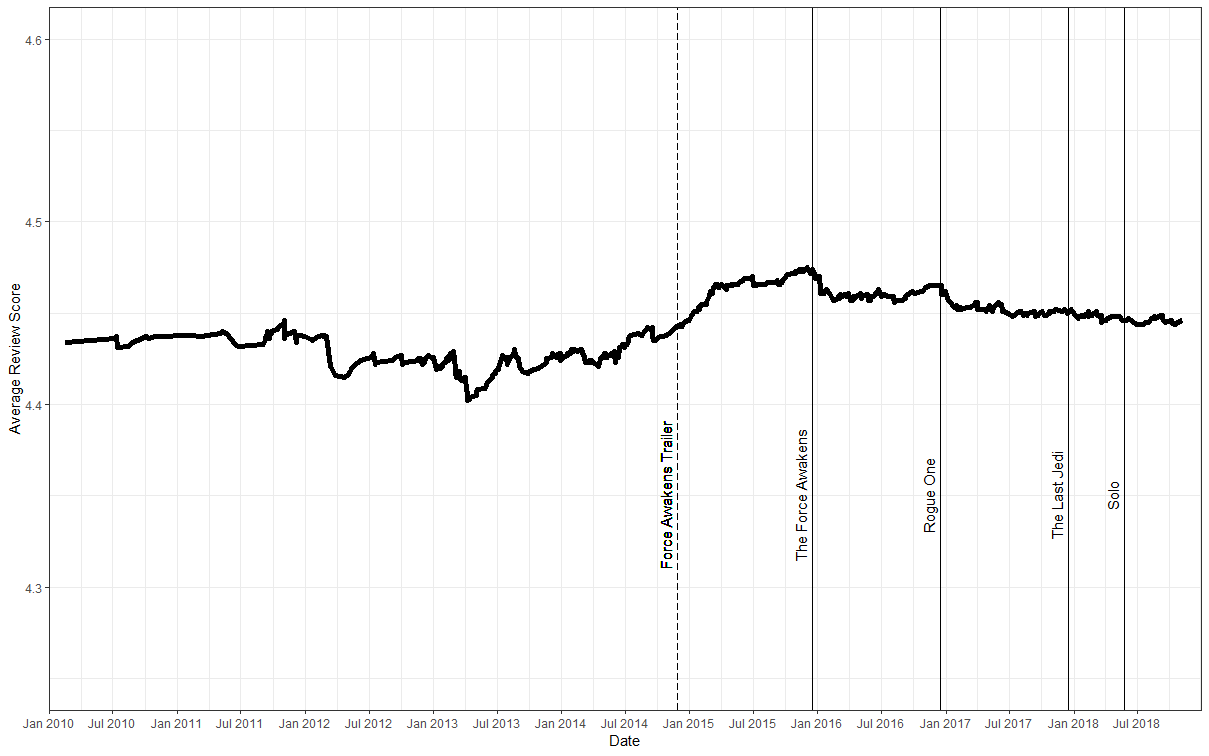
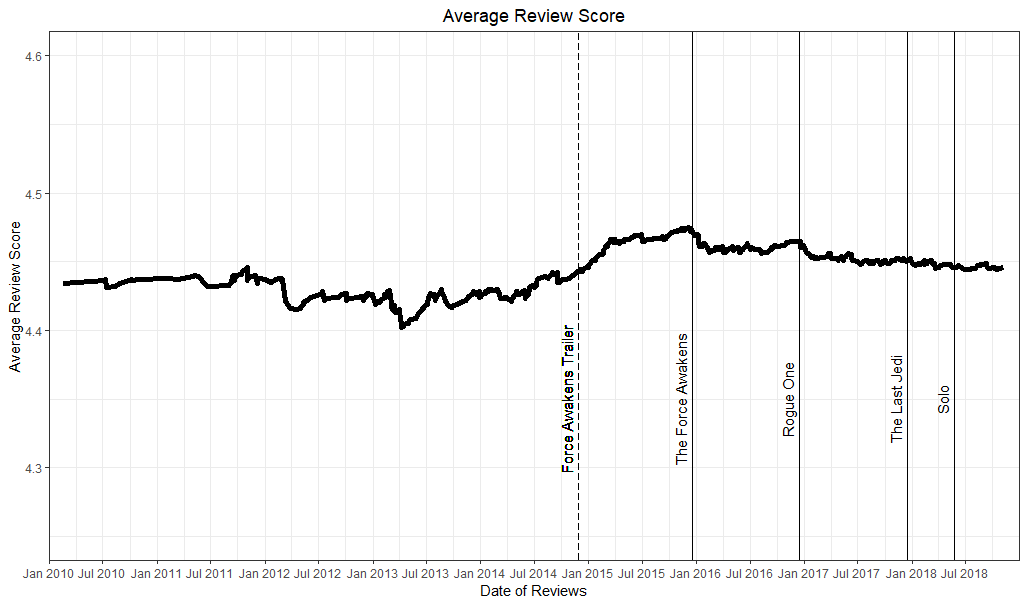
Correcting README graph axis labels

diff --git a/README.md b/README.md
@@ -36,7 +36,7 @@ ggplot(review_score_data, aes(x=Date)) +
      geom_histogram(fill = "white", color = "blue", bins = 40) +
      theme_bw() +
      theme(plot.title = element_text(hjust = 0.5), panel.grid.minor.x = element_blank()) +
-     labs(x = "Date of Reviews", y = "Number of Review", title = "Distribution of Reviews over Time") +
+     labs(x = "Date of Reviews", y = "Number of Reviews", title = "Distribution of Reviews over Time") +
      scale_x_date(date_breaks = "1 year", date_labels = "%b %Y", limits = as.Date(c('2008-01-01','2018-12-31')))
 ```
 ![Frequency of reviews over time](graphs/Dist_Reviews_Over_Time.png)
@@ -60,8 +60,9 @@ ggplot(cum_avg_review, aes(x=Date, y=avg_review)) +
   geom_line(size = 2) +
   theme_bw() +
   ylim(4.25,4.6) +  
-  ylab("Average Review Score") +
+  labs(x = "Date of Reviews", y = "Average Review Score", title = "Average Review Score") +
   scale_x_date(date_breaks = "6 month", date_labels = "%b %Y", limits = as.Date(c('2010-01-01','2018-12-31')), expand=c(0,0)) +
+  theme(plot.title = element_text(hjust = 0.5)) +
   geom_vline(xintercept = movie_releases$release_dates) + 
   geom_text(data = movie_releases, aes(x=release_dates, y = 4.35), label=movie_releases$movies, vjust=-0.5, size=4, angle = 90) +
   geom_vline(xintercept = as.Date("2014-11-28"), linetype="longdash") +
